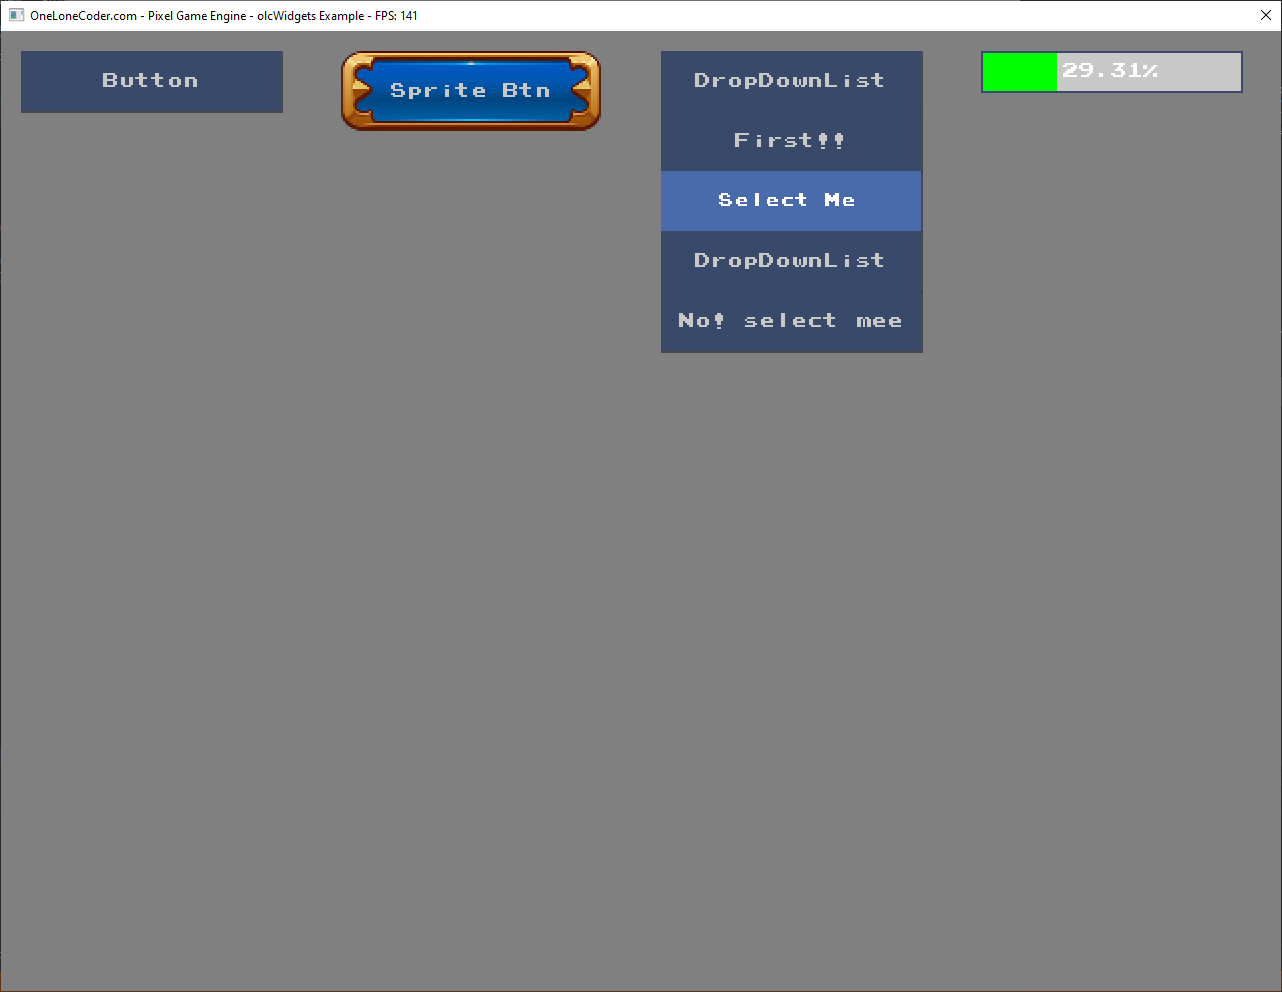
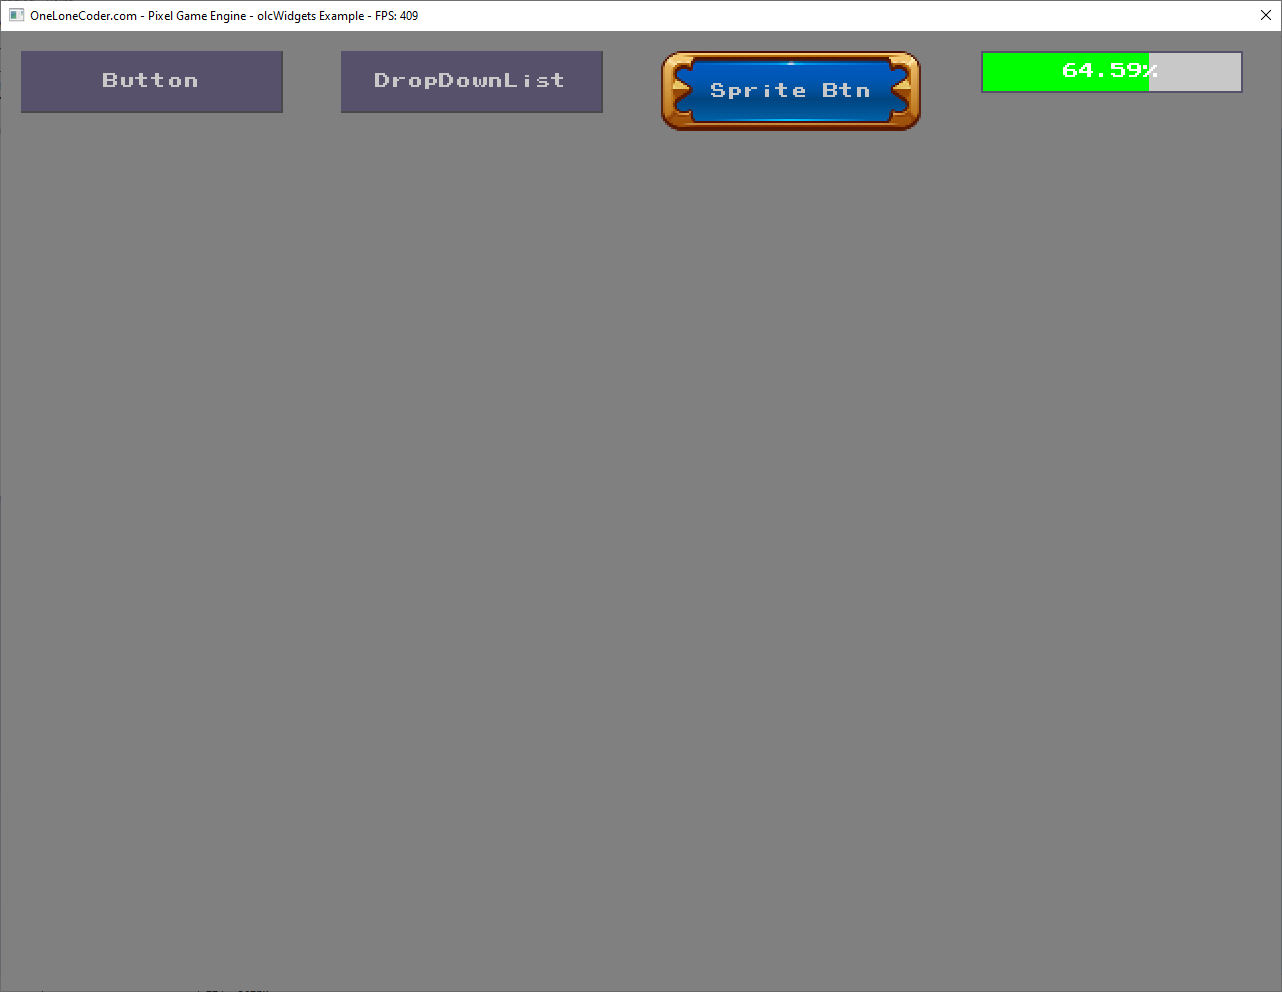
Changed Buttons States Default Colors

diff --git a/Example.cpp b/Example.cpp
@@ -13,8 +13,8 @@ public:
 
 private:
 	olc::widgets::Button* button;
-	olc::widgets::SpriteButton* spriteBtn;
 	olc::widgets::DropDownList* dropDownList;
+	olc::widgets::SpriteButton* spriteBtn;
 	olc::widgets::ProgressBar* progressBar;
 
 public:
@@ -32,32 +32,32 @@ public:
 			"Button"
 		);
 
-		//Sprite Button
- 		spriteBtn = new olc::widgets::SpriteButton(
-			{ button->getPosition().x + button->getSize().x + 30, 10 },
-			{ 130, 40 },
-			"Sprite Btn",
-			"btnSpr130x40.png"
-		);
-		
 
 		//DropDownList
 		dropDownList = new olc::widgets::DropDownList(
-			{ spriteBtn->getPosition().x + button->getSize().x + 30, 10 },
+			{ button->getPosition().x + button->getSize().x + 30, 10 },
 			{ 130, 30 },
 			{"First!!", "Select Me", "DropDownList", "No! select mee"},
 			2 //default index
 		);
 		
 
+		//Sprite Button
+		spriteBtn = new olc::widgets::SpriteButton(
+			{ dropDownList->getPosition().x + dropDownList->getSize().x + 30, 10 },
+			{ 130, 40 },
+			"Sprite Btn",
+			"btnSpr130x40.png"
+		);
+
+
 		//ProgressBar
 		progressBar = new olc::widgets::ProgressBar(
-			{ dropDownList->getPosition().x + button->getSize().x + 30, 10 },
+			{ spriteBtn->getPosition().x + spriteBtn->getSize().x + 30, 10 },
 			{ 130, 20 },
 			50.0f // 50%
 		);
 		progressBar->setValue(progressBar->getValue() + 10.0f); // 60%: 50% + 10%
-
 
 
 		return true;
@@ -67,16 +67,18 @@ public:
 	{
 		Clear(olc::DARK_GREY);
 
+		/// Update & Draw your Widgets
+
 		//Update
 		button->Update(fElapsedTime); if (button->isPressed()) {/*Do Something*/ }
-		spriteBtn->Update(fElapsedTime);
 		dropDownList->Update(fElapsedTime);
+		spriteBtn->Update(fElapsedTime);
 		progressBar->Update(fElapsedTime);  progressBar->setValue(progressBar->getValue() + (GetMouseWheel() > 0 ? 100 * fElapsedTime : GetMouseWheel() < 0 ? -100 * fElapsedTime : 0));
 
 		//Draw
 		button->Draw();
-		spriteBtn->Draw();
 		dropDownList->Draw();
+		spriteBtn->Draw();
 		progressBar->Draw();
 
 		return true;
@@ -85,8 +87,8 @@ public:
 	bool OnUserDestroy() override
 	{
 		delete button;
-		delete spriteBtn;
 		delete dropDownList;
+		delete spriteBtn;
 		delete progressBar;
 
 		return true;

diff --git a/olcWidgets.h b/olcWidgets.h
@@ -71,12 +71,19 @@ namespace olc { namespace widgets
 		vf2d textScale = { 1.0f, 1.0f };
 
 		//widget on idle color
+		Pixel idleColor   = olc::Pixel(88, 81, 107);
+		//widget on hover color
+		Pixel hoverColor = olc::Pixel(104, 96, 128);
+		//widget on active color
+		Pixel activeColor = olc::Pixel(110, 99, 145);
+#if 0
+		//widget on idle color
 		Pixel idleColor   = olc::Pixel(56, 73, 105);
 		//widget on hover color
 		Pixel hoverColor  = olc::Pixel(73, 107, 171);
 		//widget on active color
 		Pixel activeColor = olc::Pixel(78, 99, 173);
-
+#endif
 		//widget text on active color
 		Pixel textIdleColor   = olc::Pixel(200, 200, 200);
 		//widget text on hover color
